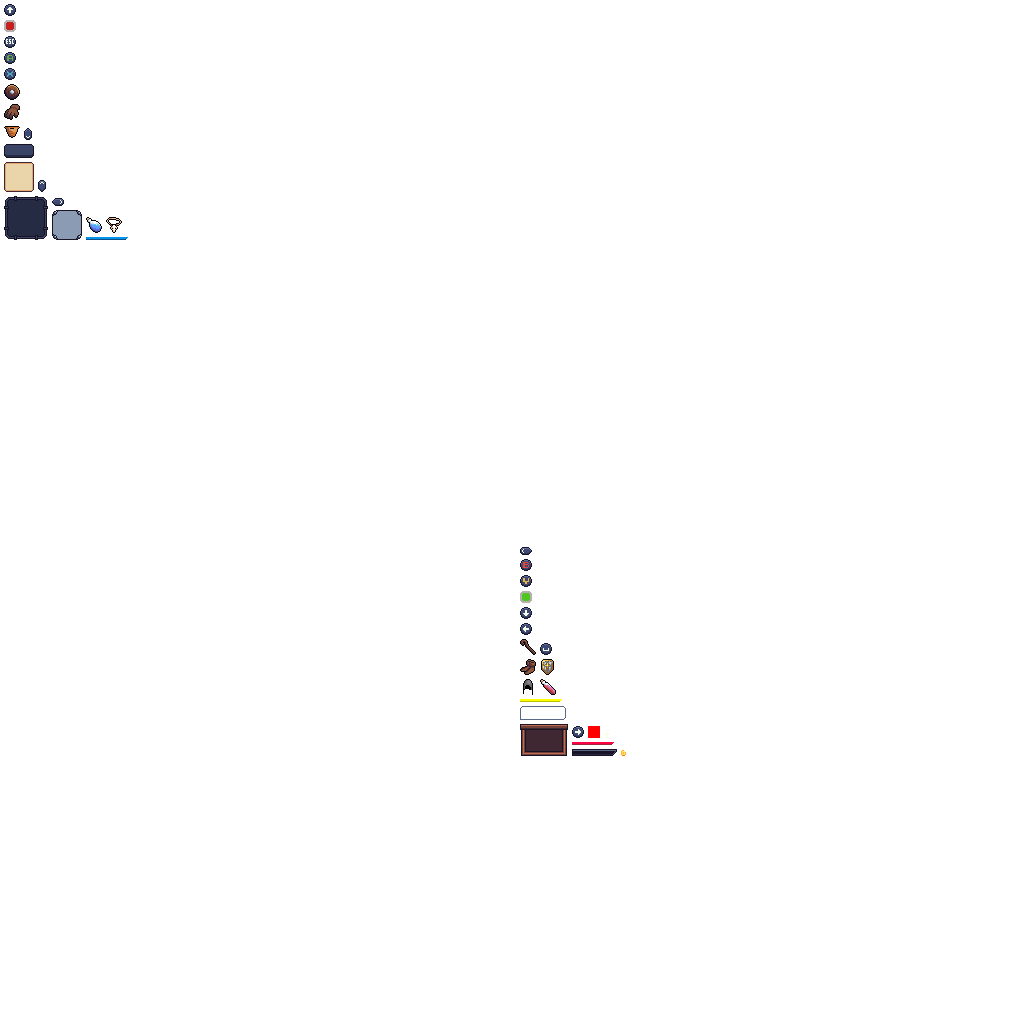
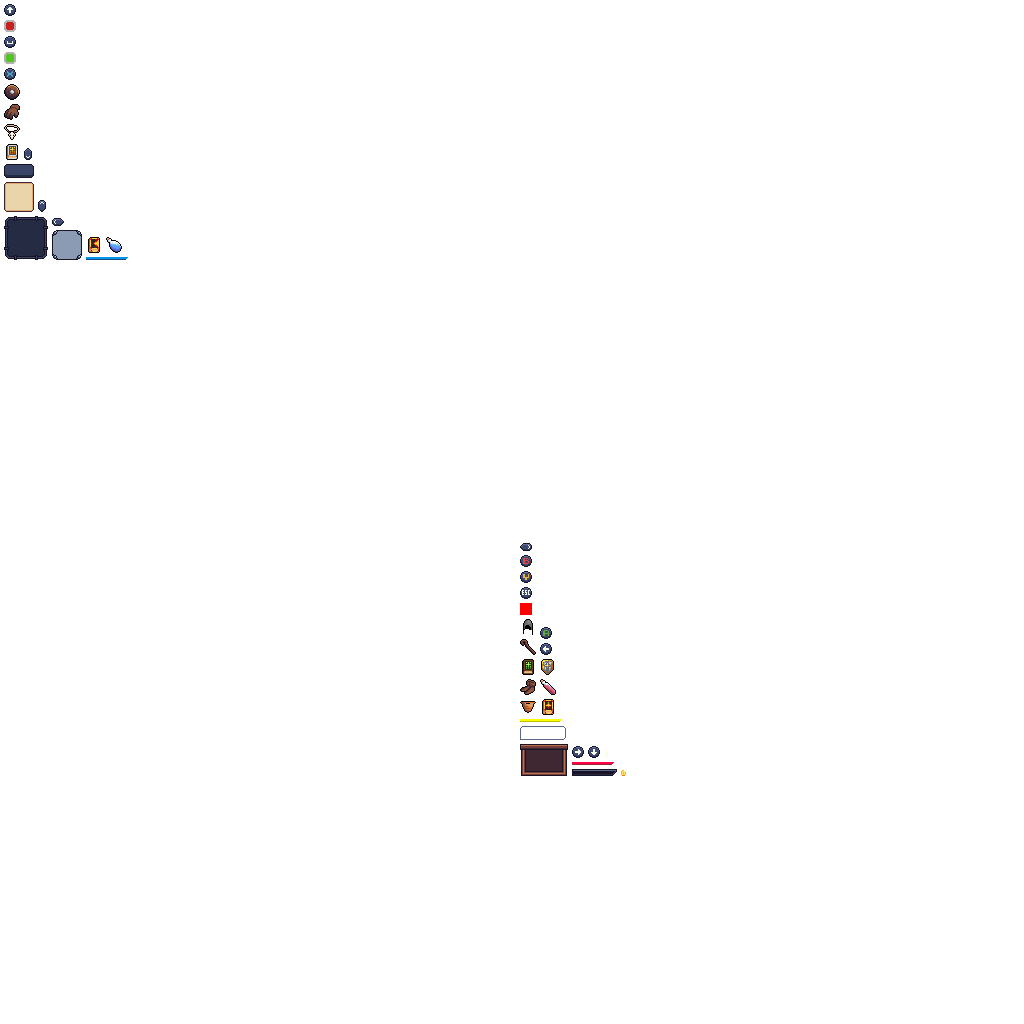
add skill tomes

Changed region(s): [[0.5, 0.5312, 0.625, 0.7812], [0.0, 0.125, 0.125, 0.25], [0.0, 0.0312, 0.0312, 0.0625]]

diff --git a/core/src/main/kotlin/com/github/quillraven/quillycrawler/ashley/system/ConsumeSystem.kt b/core/src/main/kotlin/com/github/quillraven/quillycrawler/ashley/system/ConsumeSystem.kt
@@ -11,7 +11,6 @@ import ktx.ashley.allOf
 import ktx.ashley.exclude
 import ktx.ashley.get
 import ktx.log.debug
-import ktx.log.error
 import ktx.log.logger
 
 class ConsumeSystem(private val eventDispatcher: GameEventDispatcher) :
@@ -19,36 +18,9 @@ class ConsumeSystem(private val eventDispatcher: GameEventDispatcher) :
   override fun processEntity(consumerEntity: Entity, deltaTime: Float) {
     with(consumerEntity.consumeCmp) {
       itemsToConsume.forEach { itemEntity ->
-        val itemStatsCmp = itemEntity[StatsComponent.MAPPER]
         val itemCmp = itemEntity.itemCmp
-        if (itemStatsCmp == null) {
-          LOG.error { "Trying to consume item '${itemCmp.itemType}' that does nothing" }
-          return@forEach
-        }
-
-        // consume item and add stats to entity which is consuming the item
-        consumerEntity[StatsComponent.MAPPER]?.let { consumerStatsCmp ->
-          itemStatsCmp.stats.forEach { itemStat ->
-            when (itemStat.key) {
-              StatsType.LIFE -> {
-                consumerStatsCmp[StatsType.LIFE] =
-                  (consumerStatsCmp[StatsType.LIFE] + itemStat.value).coerceAtMost(consumerStatsCmp[StatsType.MAX_LIFE])
-              }
-              StatsType.MANA -> {
-                consumerStatsCmp[StatsType.MANA] =
-                  (consumerStatsCmp[StatsType.MANA] + itemStat.value).coerceAtMost(consumerStatsCmp[StatsType.MAX_MANA])
-              }
-              else -> {
-                consumerStatsCmp[itemStat.key] = consumerStatsCmp[itemStat.key] + itemStat.value
-              }
-            }
-          }
-        }
-
-        eventDispatcher.dispatchEvent<CombatConsumeItemEvent> {
-          this.entity = consumerEntity
-          this.statsCmp = itemStatsCmp
-        }
+        consumeStats(consumerEntity, itemEntity, itemCmp)
+        consumeAbilitites(consumerEntity, itemEntity, itemCmp)
 
         // reduce amount and remove the item if necessary
         itemCmp.amount--
@@ -61,6 +33,51 @@ class ConsumeSystem(private val eventDispatcher: GameEventDispatcher) :
     }
 
     consumerEntity.remove(ConsumeComponent::class.java)
+  }
+
+  private fun consumeAbilitites(consumerEntity: Entity, itemEntity: Entity, itemCmp: ItemComponent) {
+    val consumableCmp = itemEntity[ConsumableComponent.MAPPER]
+    if (consumableCmp == null || consumableCmp.abilitiesToAdd.isEmpty) {
+      LOG.debug { "Item '${itemCmp.itemType}' does not add abilities" }
+      return
+    }
+
+    // learn abilities
+    consumerEntity[CombatComponent.MAPPER]?.let { combatCmp ->
+      consumableCmp.abilitiesToAdd.forEach { combatCmp.learn(it) }
+    }
+  }
+
+  private fun consumeStats(consumerEntity: Entity, itemEntity: Entity, itemCmp: ItemComponent) {
+    val itemStatsCmp = itemEntity[StatsComponent.MAPPER]
+    if (itemStatsCmp == null) {
+      LOG.debug { "Item '${itemCmp.itemType}' does not modify stats" }
+      return
+    }
+
+    // consume item and add stats to entity which is consuming the item
+    consumerEntity[StatsComponent.MAPPER]?.let { consumerStatsCmp ->
+      itemStatsCmp.stats.forEach { itemStat ->
+        when (itemStat.key) {
+          StatsType.LIFE -> {
+            consumerStatsCmp[StatsType.LIFE] =
+              (consumerStatsCmp[StatsType.LIFE] + itemStat.value).coerceAtMost(consumerStatsCmp[StatsType.MAX_LIFE])
+          }
+          StatsType.MANA -> {
+            consumerStatsCmp[StatsType.MANA] =
+              (consumerStatsCmp[StatsType.MANA] + itemStat.value).coerceAtMost(consumerStatsCmp[StatsType.MAX_MANA])
+          }
+          else -> {
+            consumerStatsCmp[itemStat.key] = consumerStatsCmp[itemStat.key] + itemStat.value
+          }
+        }
+      }
+    }
+
+    eventDispatcher.dispatchEvent<CombatConsumeItemEvent> {
+      this.entity = consumerEntity
+      this.statsCmp = itemStatsCmp
+    }
   }
 
   companion object {

diff --git a/core/src/main/kotlin/com/github/quillraven/quillycrawler/ashley/itemEntities.kt b/core/src/main/kotlin/com/github/quillraven/quillycrawler/ashley/itemEntities.kt
@@ -3,6 +3,10 @@ package com.github.quillraven.quillycrawler.ashley
 import com.badlogic.ashley.core.Engine
 import com.badlogic.ashley.core.Entity
 import com.github.quillraven.quillycrawler.ashley.component.*
+import com.github.quillraven.quillycrawler.combat.command.CommandExplosion
+import com.github.quillraven.quillycrawler.combat.command.CommandFirebolt
+import com.github.quillraven.quillycrawler.combat.command.CommandHeal
+import com.github.quillraven.quillycrawler.combat.command.CommandProtect
 import ktx.ashley.entity
 import ktx.ashley.with
 import ktx.collections.set
@@ -80,6 +84,22 @@ fun Engine.createItemEntity(type: ItemType, numItems: Int = 1): Entity {
           stats[StatsType.PHYSICAL_DAMAGE] = 1f
         }
         itemCmp.cost = 40
+      }
+      ItemType.TOME_EXPLOSION -> {
+        with<ConsumableComponent> { abilitiesToAdd.add(CommandExplosion::class) }
+        itemCmp.cost = 400
+      }
+      ItemType.TOME_FIREBOLT -> {
+        with<ConsumableComponent> { abilitiesToAdd.add(CommandFirebolt::class) }
+        itemCmp.cost = 100
+      }
+      ItemType.TOME_HEAL -> {
+        with<ConsumableComponent> { abilitiesToAdd.add(CommandHeal::class) }
+        itemCmp.cost = 200
+      }
+      ItemType.TOME_PROTECT -> {
+        with<ConsumableComponent> { abilitiesToAdd.add(CommandProtect::class) }
+        itemCmp.cost = 150
       }
       ItemType.UNDEFINED -> {
       }

diff --git a/core/src/main/kotlin/com/github/quillraven/quillycrawler/ashley/entityConfigurations.kt b/core/src/main/kotlin/com/github/quillraven/quillycrawler/ashley/entityConfigurations.kt
@@ -17,7 +17,9 @@ import com.github.quillraven.quillycrawler.ai.EnemyState
 import com.github.quillraven.quillycrawler.ai.PlayerState
 import com.github.quillraven.quillycrawler.ashley.component.*
 import com.github.quillraven.quillycrawler.assets.TextureAtlasAssets
-import com.github.quillraven.quillycrawler.combat.command.*
+import com.github.quillraven.quillycrawler.combat.command.CommandAttack
+import com.github.quillraven.quillycrawler.combat.command.CommandDeath
+import com.github.quillraven.quillycrawler.combat.command.CommandUseItem
 import ktx.ashley.*
 import ktx.box2d.BodyDefinition
 import ktx.box2d.body
@@ -211,11 +213,6 @@ fun Engine.createPlayerEntity(world: World, x: Float, y: Float): Entity {
       learn<CommandAttack>()
       learn<CommandDeath>()
       learn<CommandUseItem>()
-      //TODO remove debug stuff
-      learn<CommandProtect>()
-      learn<CommandFirebolt>()
-      learn<CommandExplosion>()
-      learn<CommandHeal>()
     }
   }
 }

diff --git a/core/src/main/kotlin/com/github/quillraven/quillycrawler/ashley/component/ConsumableComponent.kt b/core/src/main/kotlin/com/github/quillraven/quillycrawler/ashley/component/ConsumableComponent.kt
@@ -2,10 +2,17 @@ package com.github.quillraven.quillycrawler.ashley.component
 
 import com.badlogic.ashley.core.Component
 import com.badlogic.gdx.utils.Pool
+import com.github.quillraven.quillycrawler.combat.command.Command
 import ktx.ashley.mapperFor
+import ktx.collections.GdxSet
+import kotlin.reflect.KClass
 
 class ConsumableComponent : Component, Pool.Poolable {
-  override fun reset() = Unit
+  val abilitiesToAdd = GdxSet<KClass<out Command>>()
+
+  override fun reset() {
+    abilitiesToAdd.clear()
+  }
 
   companion object {
     val MAPPER = mapperFor<ConsumableComponent>()

diff --git a/core/src/main/kotlin/com/github/quillraven/quillycrawler/combat/command/CommandExplosion.kt b/core/src/main/kotlin/com/github/quillraven/quillycrawler/combat/command/CommandExplosion.kt
@@ -15,7 +15,7 @@ class CommandExplosion(context: CombatContext) : Command(context) {
 
   override fun onStart() {
     entity.playAnimation("idle")
-    entity.dealDamage(engine, targets, 0f, 100f, 0.75f)
+    entity.dealDamage(engine, targets, 0f, 30f, 0.75f)
     audioService.play(SoundAssets.EXPLOSION)
     targets.forEach {
       engine.createEffectEntity(it, "FIRE_RING", Align.center, 1.4f, speed = 2f, scaling = 1.5f)

diff --git a/core/src/main/kotlin/com/github/quillraven/quillycrawler/ashley/component/ItemComponent.kt b/core/src/main/kotlin/com/github/quillraven/quillycrawler/ashley/component/ItemComponent.kt
@@ -18,7 +18,11 @@ enum class ItemType(val gearType: GearType = GearType.UNDEFINED) {
   LEATHER_BOOTS(GearType.BOOTS),
   BUCKLER(GearType.SHIELD),
   HEALTH_POTION,
-  MANA_POTION;
+  MANA_POTION,
+  TOME_PROTECT,
+  TOME_FIREBOLT,
+  TOME_EXPLOSION,
+  TOME_HEAL;
 
   companion object {
     private val GEAR_ITEM_TYPES = values().filter { it.gearType != GearType.UNDEFINED }

diff --git a/core/src/main/kotlin/com/github/quillraven/quillycrawler/ashley/component/CombatComponent.kt b/core/src/main/kotlin/com/github/quillraven/quillycrawler/ashley/component/CombatComponent.kt
@@ -89,6 +89,10 @@ class CombatComponent : Component, Pool.Poolable {
     commandsToLearn.add(T::class)
   }
 
+  fun learn(cmdType: KClass<out Command>) {
+    commandsToLearn.add(cmdType)
+  }
+
   override fun reset() {
     availableCommands.clear()
     commandsToLearn.clear()
